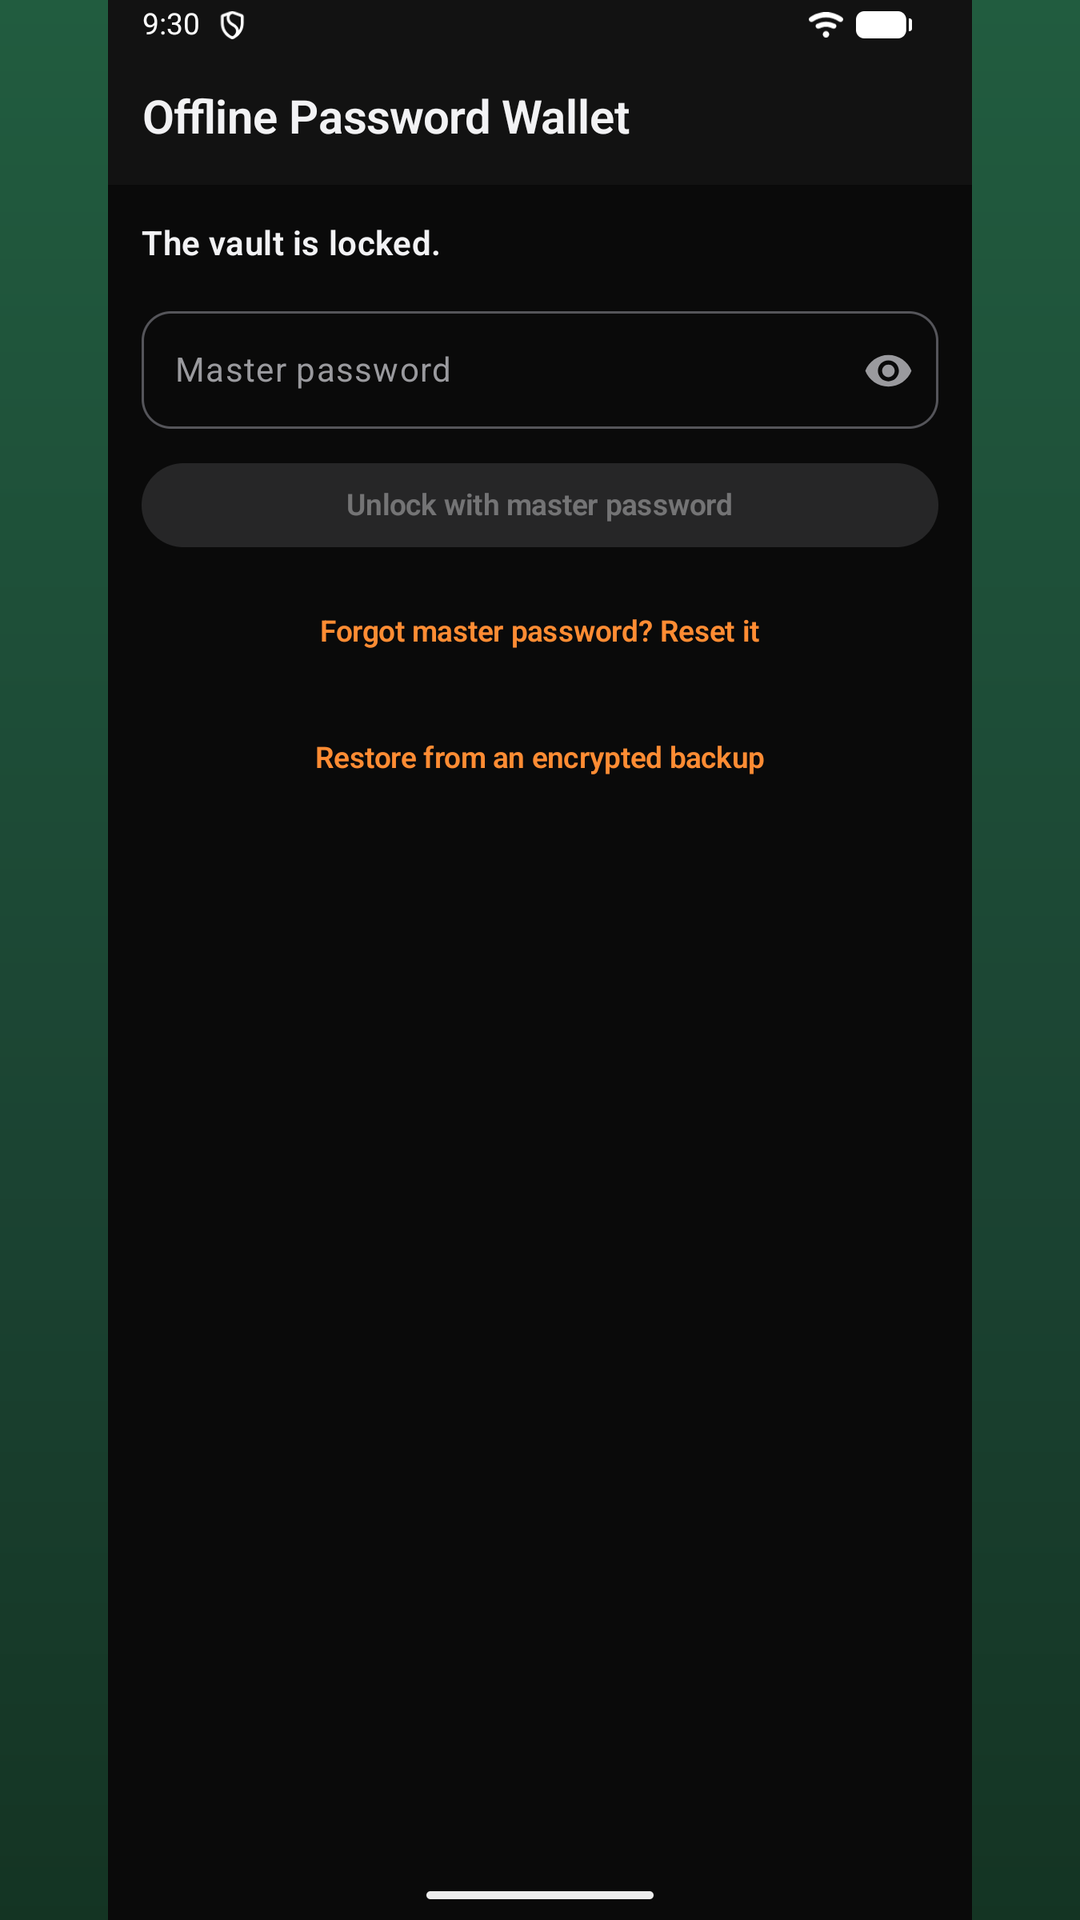
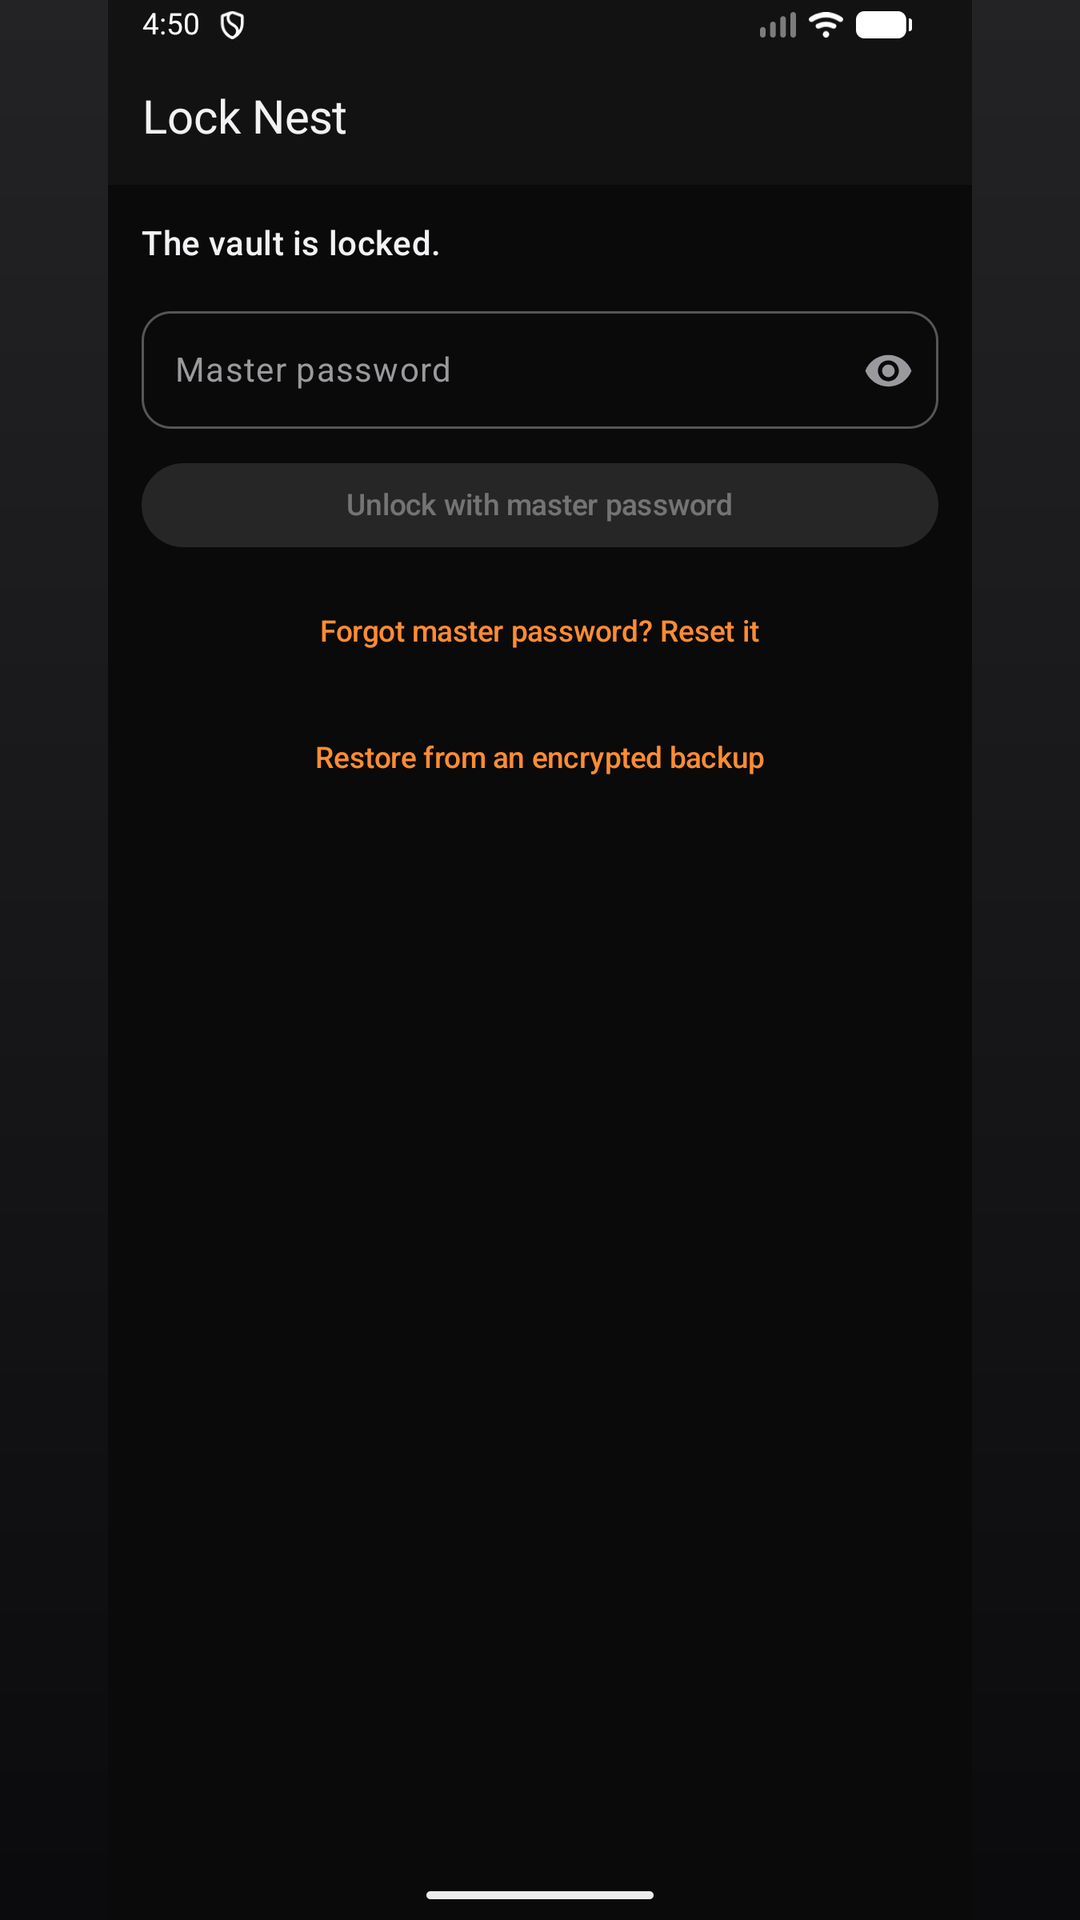
Rename the app to Lock Nest
User-facing rename only. The launcher label is now "Lock Nest" (verified
across every locale in the built APK), the entries screen is titled
"Password List" rather than "Wallet", and setup reads "Set up your Lock
Nest". The unlock screen, biometric prompt, settings footer, backup
prose and the default export filenames follow the same name so nothing
still says the old one.

Deliberately unchanged:

- The application ID stays com.acesoftph.offlinepasswordwallet. It is the
  Play identity and the upgrade key; changing it would orphan installs.
- The backup format identifiers stay as they are -- MAGIC is still
  "OPW-ENCRYPTED-BACKUP" and the extension still .opwbackup. They are
  on-disk identifiers, and renaming them would stop already-exported
  backups from restoring.
- Internal Kotlin names (WalletRoot, WalletCard, WalletApplication) stay.
  They are not user-visible and renaming them buys nothing.
- The signing certificate DN still reads "Offline Password Wallet". It is
  baked into the upload key, is never shown to users, and regenerating it
  would invalidate the key Play expects.

Collateral updated to match: privacy policy, support page, README, the
store listing text, and the feature graphic (the shorter name fits one
line, so it is set larger with the tagline moved up to stay centred).
All eight store screenshots re-captured against the renamed UI. Listing
fields re-checked -- app name is now 9 of the 30 characters allowed.
[…]

diff --git a/app/src/main/java/com/acesoftph/offlinepasswordwallet/ui/screens/AuthScreens.kt b/app/src/main/java/com/acesoftph/offlinepasswordwallet/ui/screens/AuthScreens.kt
@@ -65,7 +65,7 @@ fun SetupScreen(onRestoreBackup: () -> Unit) {
         if (password.isEmpty()) null else PasswordStrength.masterPolicyError(password.toCharArray())
     }
 
-    Scaffold(topBar = { TopAppBar(title = { Text("Set up your wallet") }) }) { padding ->
+    Scaffold(topBar = { TopAppBar(title = { Text("Set up your Lock Nest") }) }) { padding ->
         Column(
             modifier = Modifier
                 .fillMaxSize()
@@ -79,7 +79,7 @@ fun SetupScreen(onRestoreBackup: () -> Unit) {
                     Column(Modifier.padding(12.dp), verticalArrangement = Arrangement.spacedBy(4.dp)) {
                         Text("Create a master password", style = MaterialTheme.typography.titleMedium)
                         Text(
-                            "This password encrypts everything in your wallet. It is never stored. " +
+                            "This password encrypts everything in your Lock Nest. It is never stored. " +
                                 "If you forget it, it cannot be recovered — you can only RESET it " +
                                 "using your five security answers, which creates a new master password.",
                             style = MaterialTheme.typography.bodySmall,
@@ -229,7 +229,7 @@ fun UnlockScreen(
         }
         BiometricAuthenticator.authenticate(
             activity = act,
-            title = "Unlock Offline Password Wallet",
+            title = "Unlock Lock Nest",
             subtitle = "Confirm your identity",
             cipher = cipher,
             onSuccess = { authedCipher ->
@@ -262,7 +262,7 @@ fun UnlockScreen(
         if (biometricPossible) runBiometricUnlock()
     }
 
-    Scaffold(topBar = { TopAppBar(title = { Text("Offline Password Wallet") }) }) { padding ->
+    Scaffold(topBar = { TopAppBar(title = { Text("Lock Nest") }) }) { padding ->
         Column(
             modifier = Modifier.fillMaxSize().padding(padding).padding(16.dp),
             verticalArrangement = Arrangement.spacedBy(12.dp),

diff --git a/docs/index.html b/docs/index.html
@@ -3,8 +3,8 @@
 <head>
 <meta charset="utf-8">
 <meta name="viewport" content="width=device-width, initial-scale=1">
-<title>Privacy Policy — Offline Password Wallet</title>
-<meta name="description" content="Privacy policy for the Offline Password Wallet Android app. The app collects no data and has no internet permission.">
+<title>Privacy Policy — Lock Nest</title>
+<meta name="description" content="Privacy policy for the Lock Nest Android app. The app collects no data and has no internet permission.">
 <!--
   Deliberately self-contained: no web fonts, no CDN, no analytics, no third-party
   requests of any kind. A privacy policy that phones out to other servers to
@@ -66,7 +66,7 @@
 
 <header>
   <div class="badge">Privacy Policy</div>
-  <h1>Offline Password Wallet</h1>
+  <h1>Lock Nest</h1>
   <p class="meta">
     Android application ID <code>com.acesoftph.offlinepasswordwallet</code><br>
     Effective 31 August 2026 · Version 1.0.0
@@ -89,7 +89,7 @@
 
 <h2><span class="n">1.</span> Who this policy applies to</h2>
 <p>
-  This policy covers the Android application <strong>Offline Password Wallet</strong>
+  This policy covers the Android application <strong>Lock Nest</strong>
   (<code>com.acesoftph.offlinepasswordwallet</code>), distributed through Google
   Play. In this document, “the app” means that application, and “you” means the
   person using it on their own device.
@@ -249,7 +249,7 @@
 </p>
 
 <footer>
-  Offline Password Wallet · Privacy Policy · Effective 31 August 2026<br>
+  Lock Nest · Privacy Policy · Effective 31 August 2026<br>
   This page loads no external resources and sets no cookies.
 </footer>
 

diff --git a/app/src/main/java/com/acesoftph/offlinepasswordwallet/ui/screens/BackupScreens.kt b/app/src/main/java/com/acesoftph/offlinepasswordwallet/ui/screens/BackupScreens.kt
@@ -167,7 +167,7 @@ fun ExportBackupScreen(onBack: () -> Unit) {
                         policyError != null -> message = policyError
                         passphrase != confirm -> message = "The two passphrases do not match."
                         else -> creator.launch(
-                            "offline-password-wallet-${dateStamp()}.${BackupCodec.FILE_EXTENSION}",
+                            "lock-nest-${dateStamp()}.${BackupCodec.FILE_EXTENSION}",
                         )
                     }
                 },
@@ -302,7 +302,7 @@ fun RestoreBackupScreen(onDone: () -> Unit, onCancel: () -> Unit) {
             when (phase) {
                 RestorePhase.PICK -> {
                     Text(
-                        "Select an Offline Password Wallet encrypted backup (.${BackupCodec.FILE_EXTENSION}) " +
+                        "Select a Lock Nest encrypted backup (.${BackupCodec.FILE_EXTENSION}) " +
                             "and enter its backup passphrase. The file is read into memory only.",
                         style = MaterialTheme.typography.bodySmall,
                     )

diff --git a/docs/support.html b/docs/support.html
@@ -3,8 +3,8 @@
 <head>
 <meta charset="utf-8">
 <meta name="viewport" content="width=device-width, initial-scale=1">
-<title>Support — Offline Password Wallet</title>
-<meta name="description" content="Support, troubleshooting and contact details for the Offline Password Wallet Android app.">
+<title>Support — Lock Nest</title>
+<meta name="description" content="Support, troubleshooting and contact details for the Lock Nest Android app.">
 <!--
   Self-contained by design, like the privacy policy: no web fonts, no CDN, no
   analytics, no third-party requests of any kind.
@@ -70,7 +70,7 @@
 
 <header>
   <div class="badge">Support</div>
-  <h1>Offline Password Wallet</h1>
+  <h1>Lock Nest</h1>
   <p class="meta">Android 8.0 and later · Version 1.0.0</p>
   <nav>
     <a href="./">Privacy policy</a>
@@ -272,7 +272,7 @@
 </p>
 
 <footer>
-  Offline Password Wallet · Support ·
+  Lock Nest · Support ·
   <a href="./">Privacy policy</a> ·
   <a href="https://github.com/ACESoftPH/my_offline_password_safe">Source</a><br>
   This page loads no external resources and sets no cookies.

diff --git a/app/src/main/java/com/acesoftph/offlinepasswordwallet/data/backup/BackupCodec.kt b/app/src/main/java/com/acesoftph/offlinepasswordwallet/data/backup/BackupCodec.kt
@@ -65,10 +65,10 @@ class BackupCodec(
         val file = try {
             json.decodeFromString(EncryptedBackupFile.serializer(), bytes.toString(Charsets.UTF_8))
         } catch (e: SerializationException) {
-            throw BackupFormatException("This file is not an Offline Password Wallet backup.", e)
+            throw BackupFormatException("This file is not a Lock Nest backup.", e)
         }
         if (file.magic != MAGIC) {
-            throw BackupFormatException("This file is not an Offline Password Wallet backup.")
+            throw BackupFormatException("This file is not a Lock Nest backup.")
         }
         if (file.formatVersion != FORMAT_VERSION) {
             throw BackupFormatException(

diff --git a/app/src/main/java/com/acesoftph/offlinepasswordwallet/importexport/Csv.kt b/app/src/main/java/com/acesoftph/offlinepasswordwallet/importexport/Csv.kt
@@ -137,7 +137,7 @@ object Csv {
     /**
      * Neutralizes a value that a spreadsheet would otherwise execute, by prefixing
      * an apostrophe (the standard "treat as text" marker). Applied on export only;
-     * [unescapeFormula] reverses it on import, so an Offline Password Wallet
+     * [unescapeFormula] reverses it on import, so a Lock Nest
      * export → import round trip is lossless.
      */
     fun escapeFormula(value: String): String =

diff --git a/app/src/main/java/com/acesoftph/offlinepasswordwallet/ui/screens/ImportExportScreens.kt b/app/src/main/java/com/acesoftph/offlinepasswordwallet/ui/screens/ImportExportScreens.kt
@@ -272,7 +272,7 @@ fun ExportCsvScreen(onBack: () -> Unit) {
             }
             Button(
                 enabled = acknowledged && entries.isNotEmpty() && !done,
-                onClick = { creator.launch("offline-password-wallet-export.csv") },
+                onClick = { creator.launch("lock-nest-export.csv") },
                 modifier = Modifier.fillMaxWidth().testTag("do_export"),
             ) { Text("Choose location & export") }
 

diff --git a/app/src/main/java/com/acesoftph/offlinepasswordwallet/ui/screens/SettingsScreen.kt b/app/src/main/java/com/acesoftph/offlinepasswordwallet/ui/screens/SettingsScreen.kt
@@ -293,7 +293,7 @@ fun SettingsScreen(
             )
 
             Text(
-                "Offline Password Wallet — no network permission, no cloud, no analytics.",
+                "Lock Nest — no network permission, no cloud, no analytics.",
                 style = MaterialTheme.typography.bodySmall,
                 color = MaterialTheme.colorScheme.onSurfaceVariant,
                 textAlign = TextAlign.Center,

diff --git a/app/src/main/java/com/acesoftph/offlinepasswordwallet/crypto/CryptoErrors.kt b/app/src/main/java/com/acesoftph/offlinepasswordwallet/crypto/CryptoErrors.kt
@@ -39,7 +39,7 @@ class VaultRollbackException(val storedRevision: Long, val fileRevision: Long) :
             "using this file.",
     )
 
-/** The selected file is not an Offline Password Wallet encrypted backup. */
+/** The selected file is not a Lock Nest encrypted backup. */
 class BackupFormatException(message: String, cause: Throwable? = null) :
     VaultCryptoException(message, cause)
 

diff --git a/app/src/main/java/com/acesoftph/offlinepasswordwallet/ui/screens/VaultListScreen.kt b/app/src/main/java/com/acesoftph/offlinepasswordwallet/ui/screens/VaultListScreen.kt
@@ -89,7 +89,7 @@ fun VaultListScreen(
     Scaffold(
         topBar = {
             TopAppBar(
-                title = { Text("Wallet") },
+                title = { Text("Password List") },
                 actions = {
                     IconButton(
                         onClick = { scope.launch { ServiceLocator.vaultRepository.lock() } },

diff --git a/store-listing/generate.py b/store-listing/generate.py
@@ -189,11 +189,13 @@ def feature_graphic(w=1024, h=500):
     img.paste(mark_bg, (78, (h - mark_px) // 2), m.convert("L"))
 
     x = 78 + mark_px + 62
-    d.text((x, 150), "Offline Password", font=font(62, "Bold"), fill=(255, 255, 255))
-    d.text((x, 218), "Wallet", font=font(62, "Bold"), fill=(255, 255, 255))
-    d.text((x, 300), "Encrypted on your device. No account,",
+    # "Lock Nest" fits on one line where the old two-word-per-line name did not,
+    # so it is set larger and the tagline moves up to keep the text block
+    # optically centred against the mark.
+    d.text((x, 150), "Lock Nest", font=font(76, "Bold"), fill=(255, 255, 255))
+    d.text((x, 272), "Encrypted on your device. No account,",
            font=font(30, "Regular"), fill=(186, 186, 192))
-    d.text((x, 340), "no cloud, no internet permission.",
+    d.text((x, 312), "no cloud, no internet permission.",
            font=font(30, "Regular"), fill=(186, 186, 192))
     return img
 

diff --git a/README.md b/README.md
@@ -1,4 +1,4 @@
-# Offline Password Wallet
+# Lock Nest
 
 A **local-only, offline** password manager for Android. No server, no account, no
 cloud, no SQL database, no network permission. Everything lives in a single
@@ -318,7 +318,7 @@ five answers ─▶ normalize ─▶ PBKDF2 ─▶ Recovery KEK
              ─▶ DEK recovered  ─▶ vault unlocked via recovery
              ─▶ user picks a NEW master password
              ─▶ DEK re-wrapped under the new Master KEK (new salt) ─▶ atomic write
-             ─▶ continue using the wallet
+             ─▶ continue using Lock Nest
 ```
 
 - Wrong answers **never touch the vault file**, so a failed attempt cannot
@@ -384,7 +384,7 @@ silently collapsing the rest of the file into one field.
 **Spreadsheet formula injection.** A CSV value beginning with `=`, `+`, `-`, `@`,
 TAB or CR is executed as a formula by Excel / LibreOffice / Sheets. Export
 prefixes such values with an apostrophe (the standard "this is text" marker) and
-import strips it back off, so an Offline Password Wallet export → import round
+import strips it back off, so a Lock Nest export → import round
 trip is lossless while the exported file is safe to open in a spreadsheet. An
 apostrophe that isn't followed by one of those characters is left alone.
 
@@ -416,7 +416,7 @@ The app says so plainly and never pretends otherwise. See §10.
 ## 7b. Encrypted backup & restore
 
 For moving to a new phone, or recovering after the app/device is lost or
-compromised, the wallet can export a **portable encrypted backup** and restore
+compromised, Lock Nest can export a **portable encrypted backup** and restore
 from it. This is separate from CSV — the backup is never plaintext.
 
 Menu: `Import / Export → Export encrypted backup` and
@@ -458,7 +458,7 @@ A small JSON envelope (magic `OPW-ENCRYPTED-BACKUP`, `formatVersion` 1):
 Requires the vault unlocked. Prompts for a backup passphrase + confirmation
 (subject to the same ≥10-char / ≥3-class policy as the master password) with a
 strength meter, then writes the file to a user-chosen SAF `CREATE_DOCUMENT` URI
-(`offline-password-wallet-YYYY-MM-DD.opwbackup`). The app keeps no copy and never
+(`lock-nest-YYYY-MM-DD.opwbackup`). The app keeps no copy and never
 transmits it.
 
 ### Restore (`BackupManager.previewAndDecrypt` → `restoreAsNewVault` / `mergeIntoUnlockedVault`)
